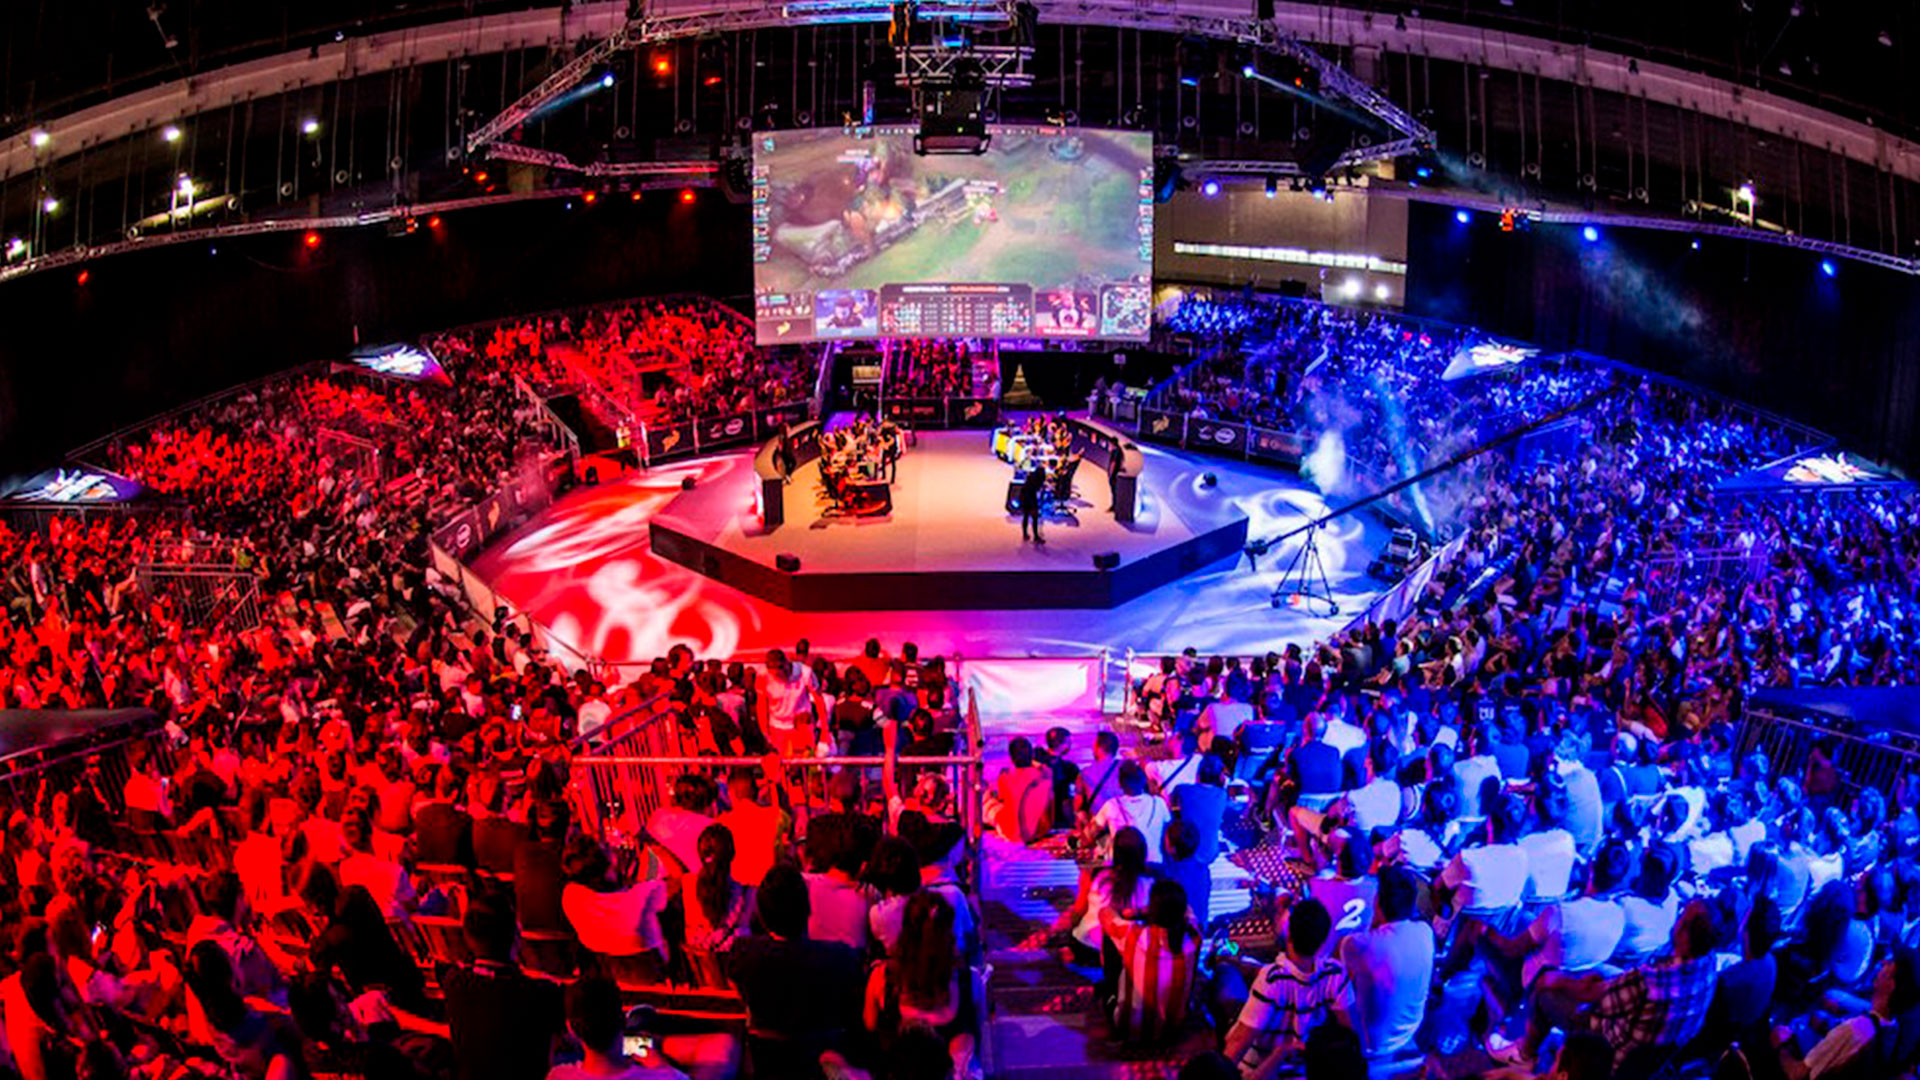
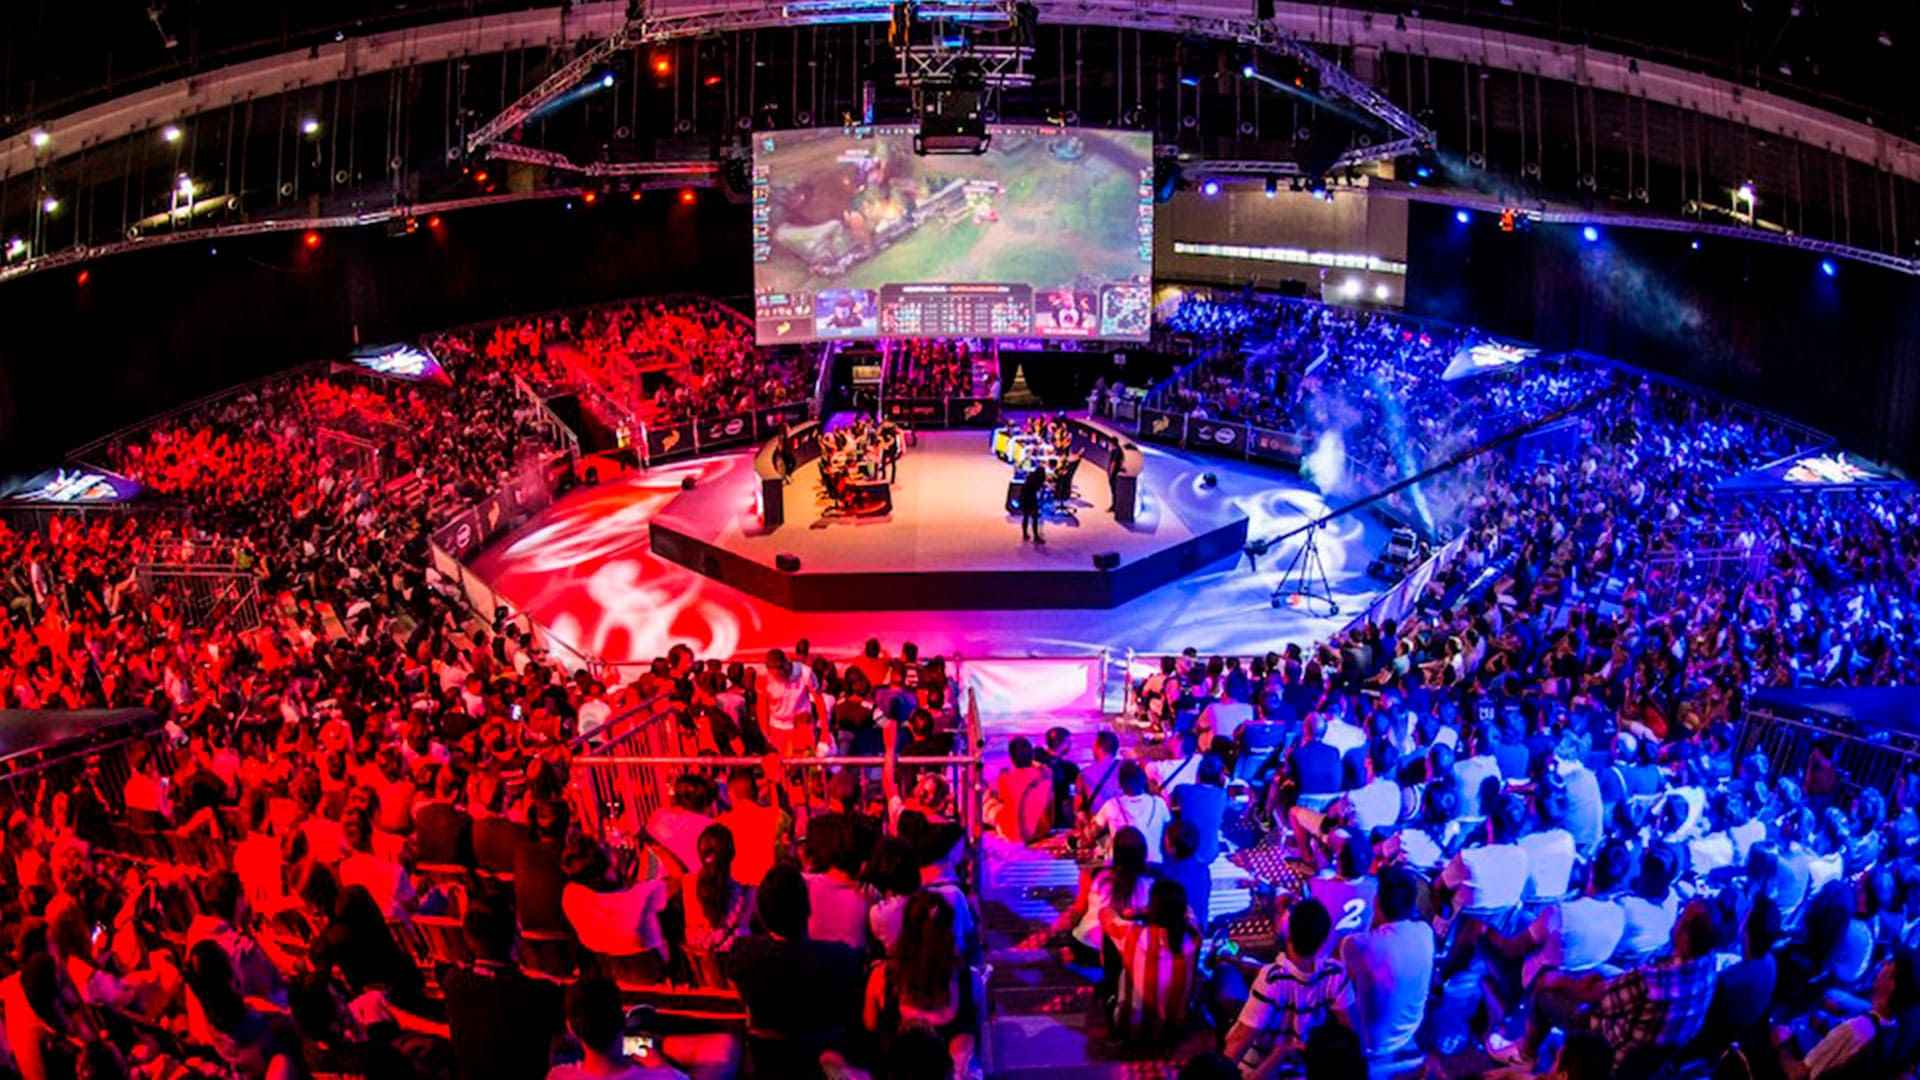
reducí el peso de las imágenes

diff --git a/css/estilo.css b/css/estilo.css
@@ -89,7 +89,7 @@ button, #final button {
   text-align: center;
   flex-direction: column;
   height: 90vh;
-  background-image: linear-gradient(0deg, rgba(0, 0, 0, 0.5), rgba(0, 0, 0, 0.5)), url(../multi/conocenos.png);
+  background-image: linear-gradient(0deg, rgba(0, 0, 0, 0.5), rgba(0, 0, 0, 0.5)), url(../multi/conocenos.jpg);
   background-repeat: no-repeat;
   background-size: cover;
   background-position: center center;

diff --git a/scss/_conocenos.scss b/scss/_conocenos.scss
@@ -10,7 +10,7 @@
       rgba(0, 0, 0, 0.5),
       rgba(0, 0, 0, 0.5)
     ),
-    url(../multi/conocenos.png);
+    url(../multi/conocenos.jpg);
   background-repeat: no-repeat;
   background-size: cover;
   background-position: center center;
